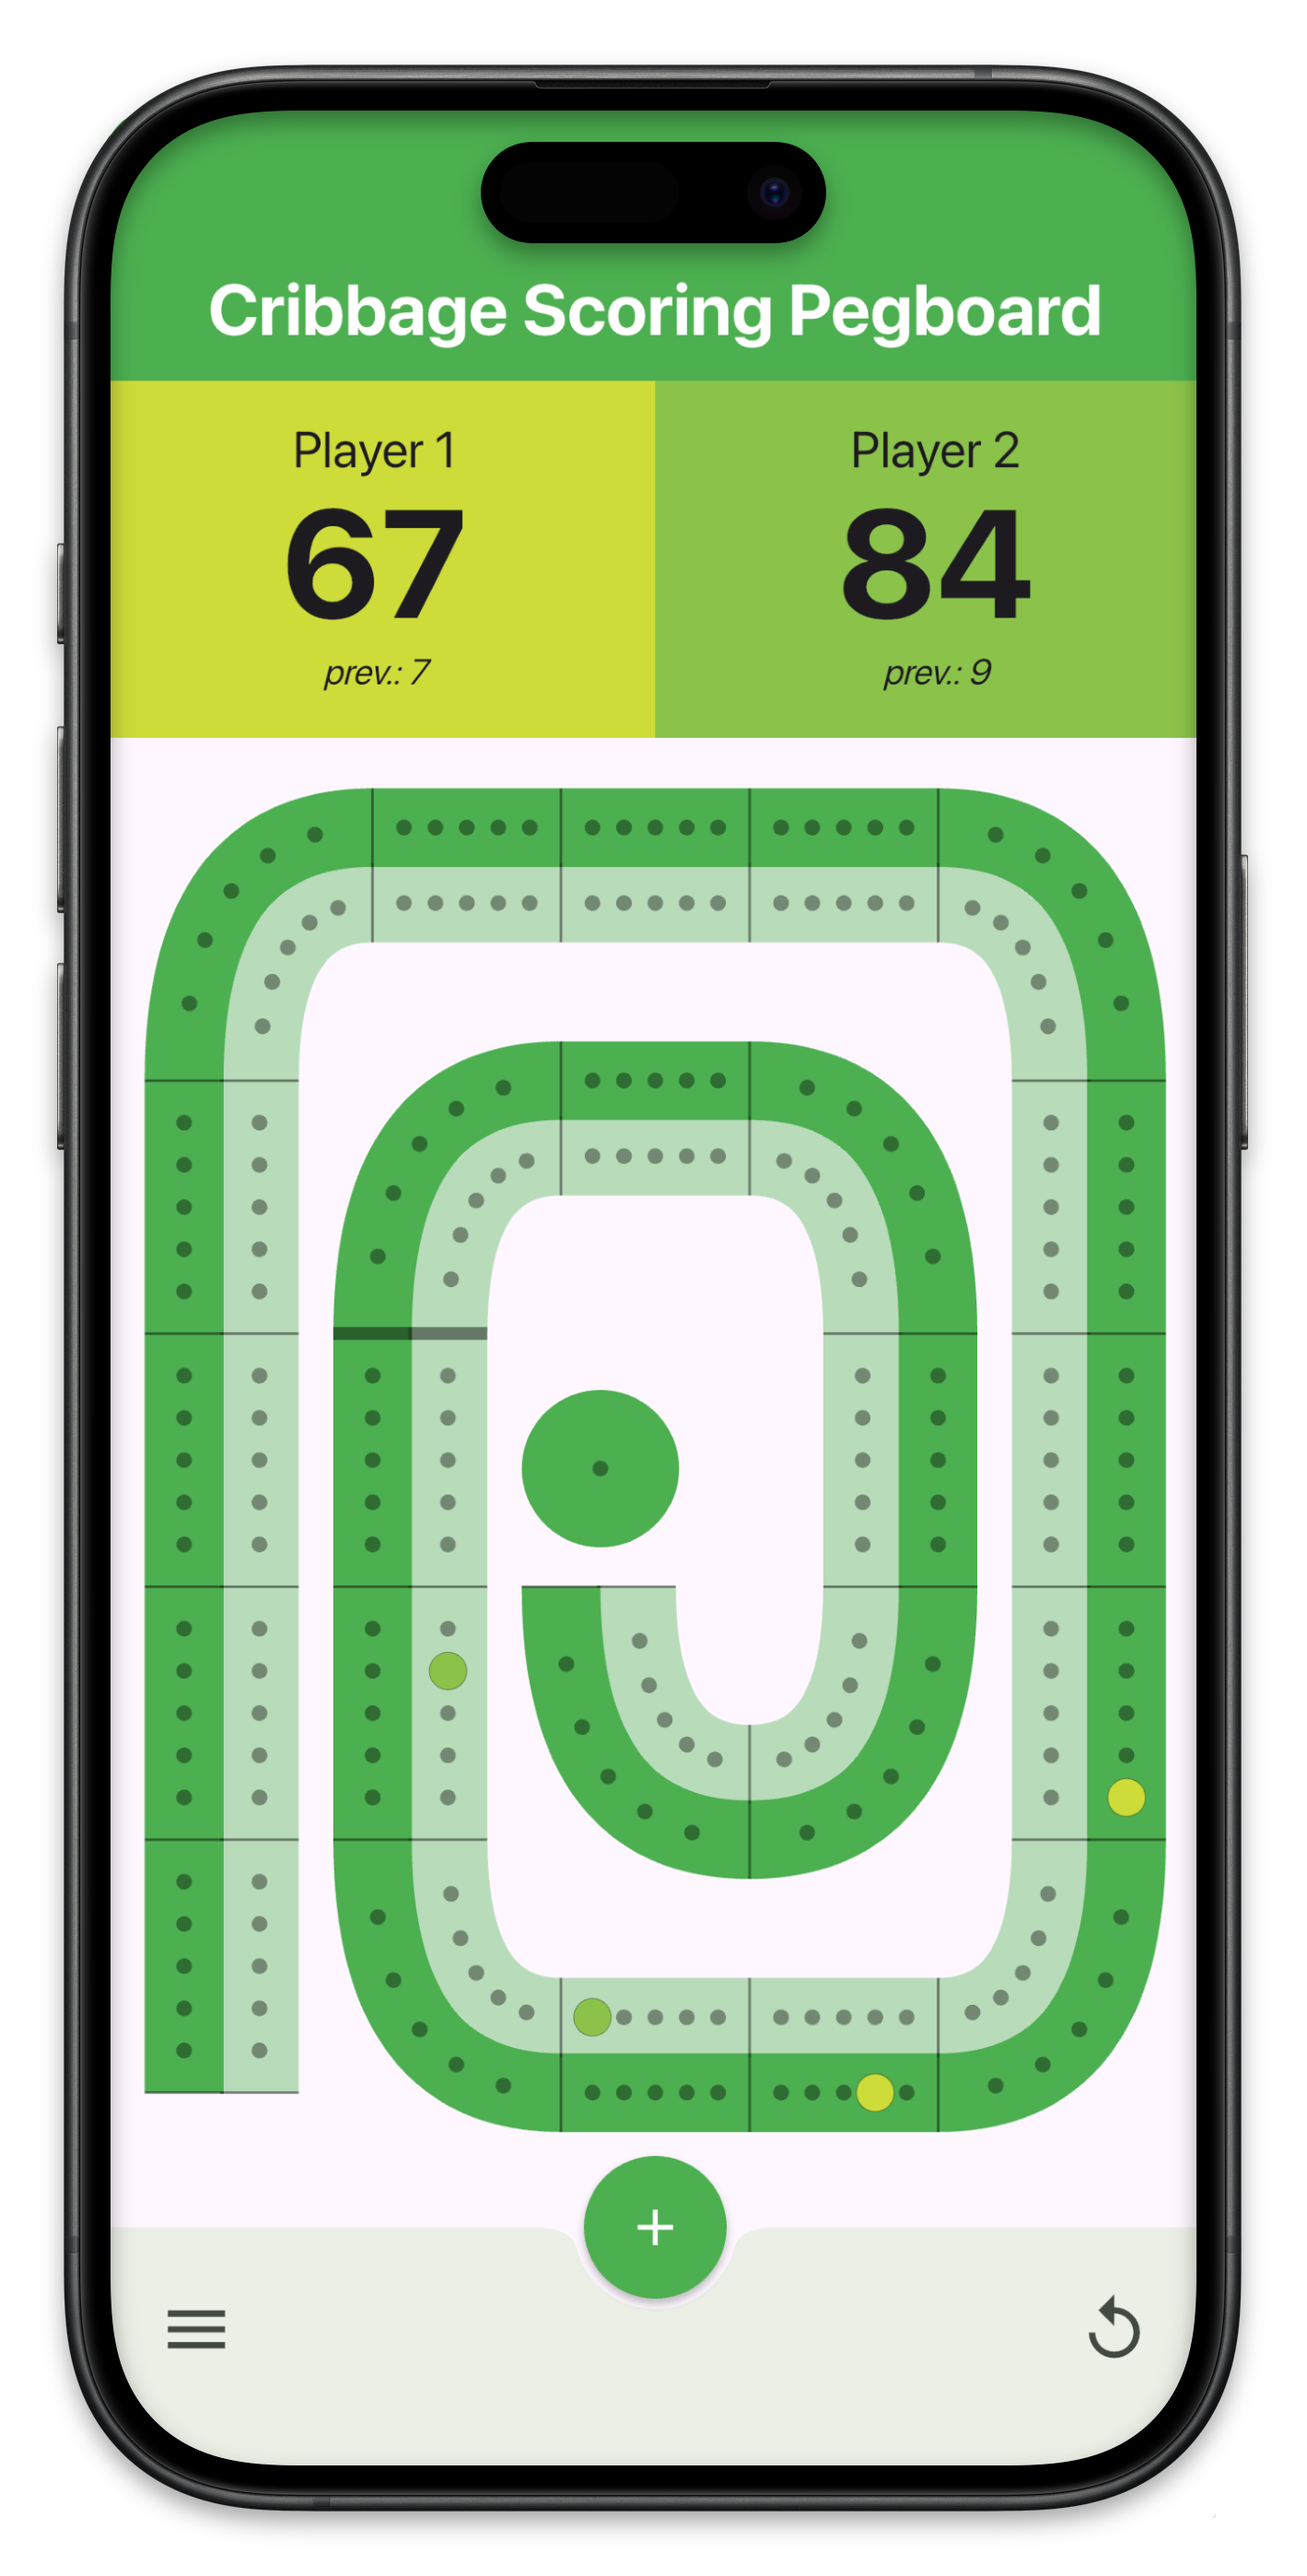
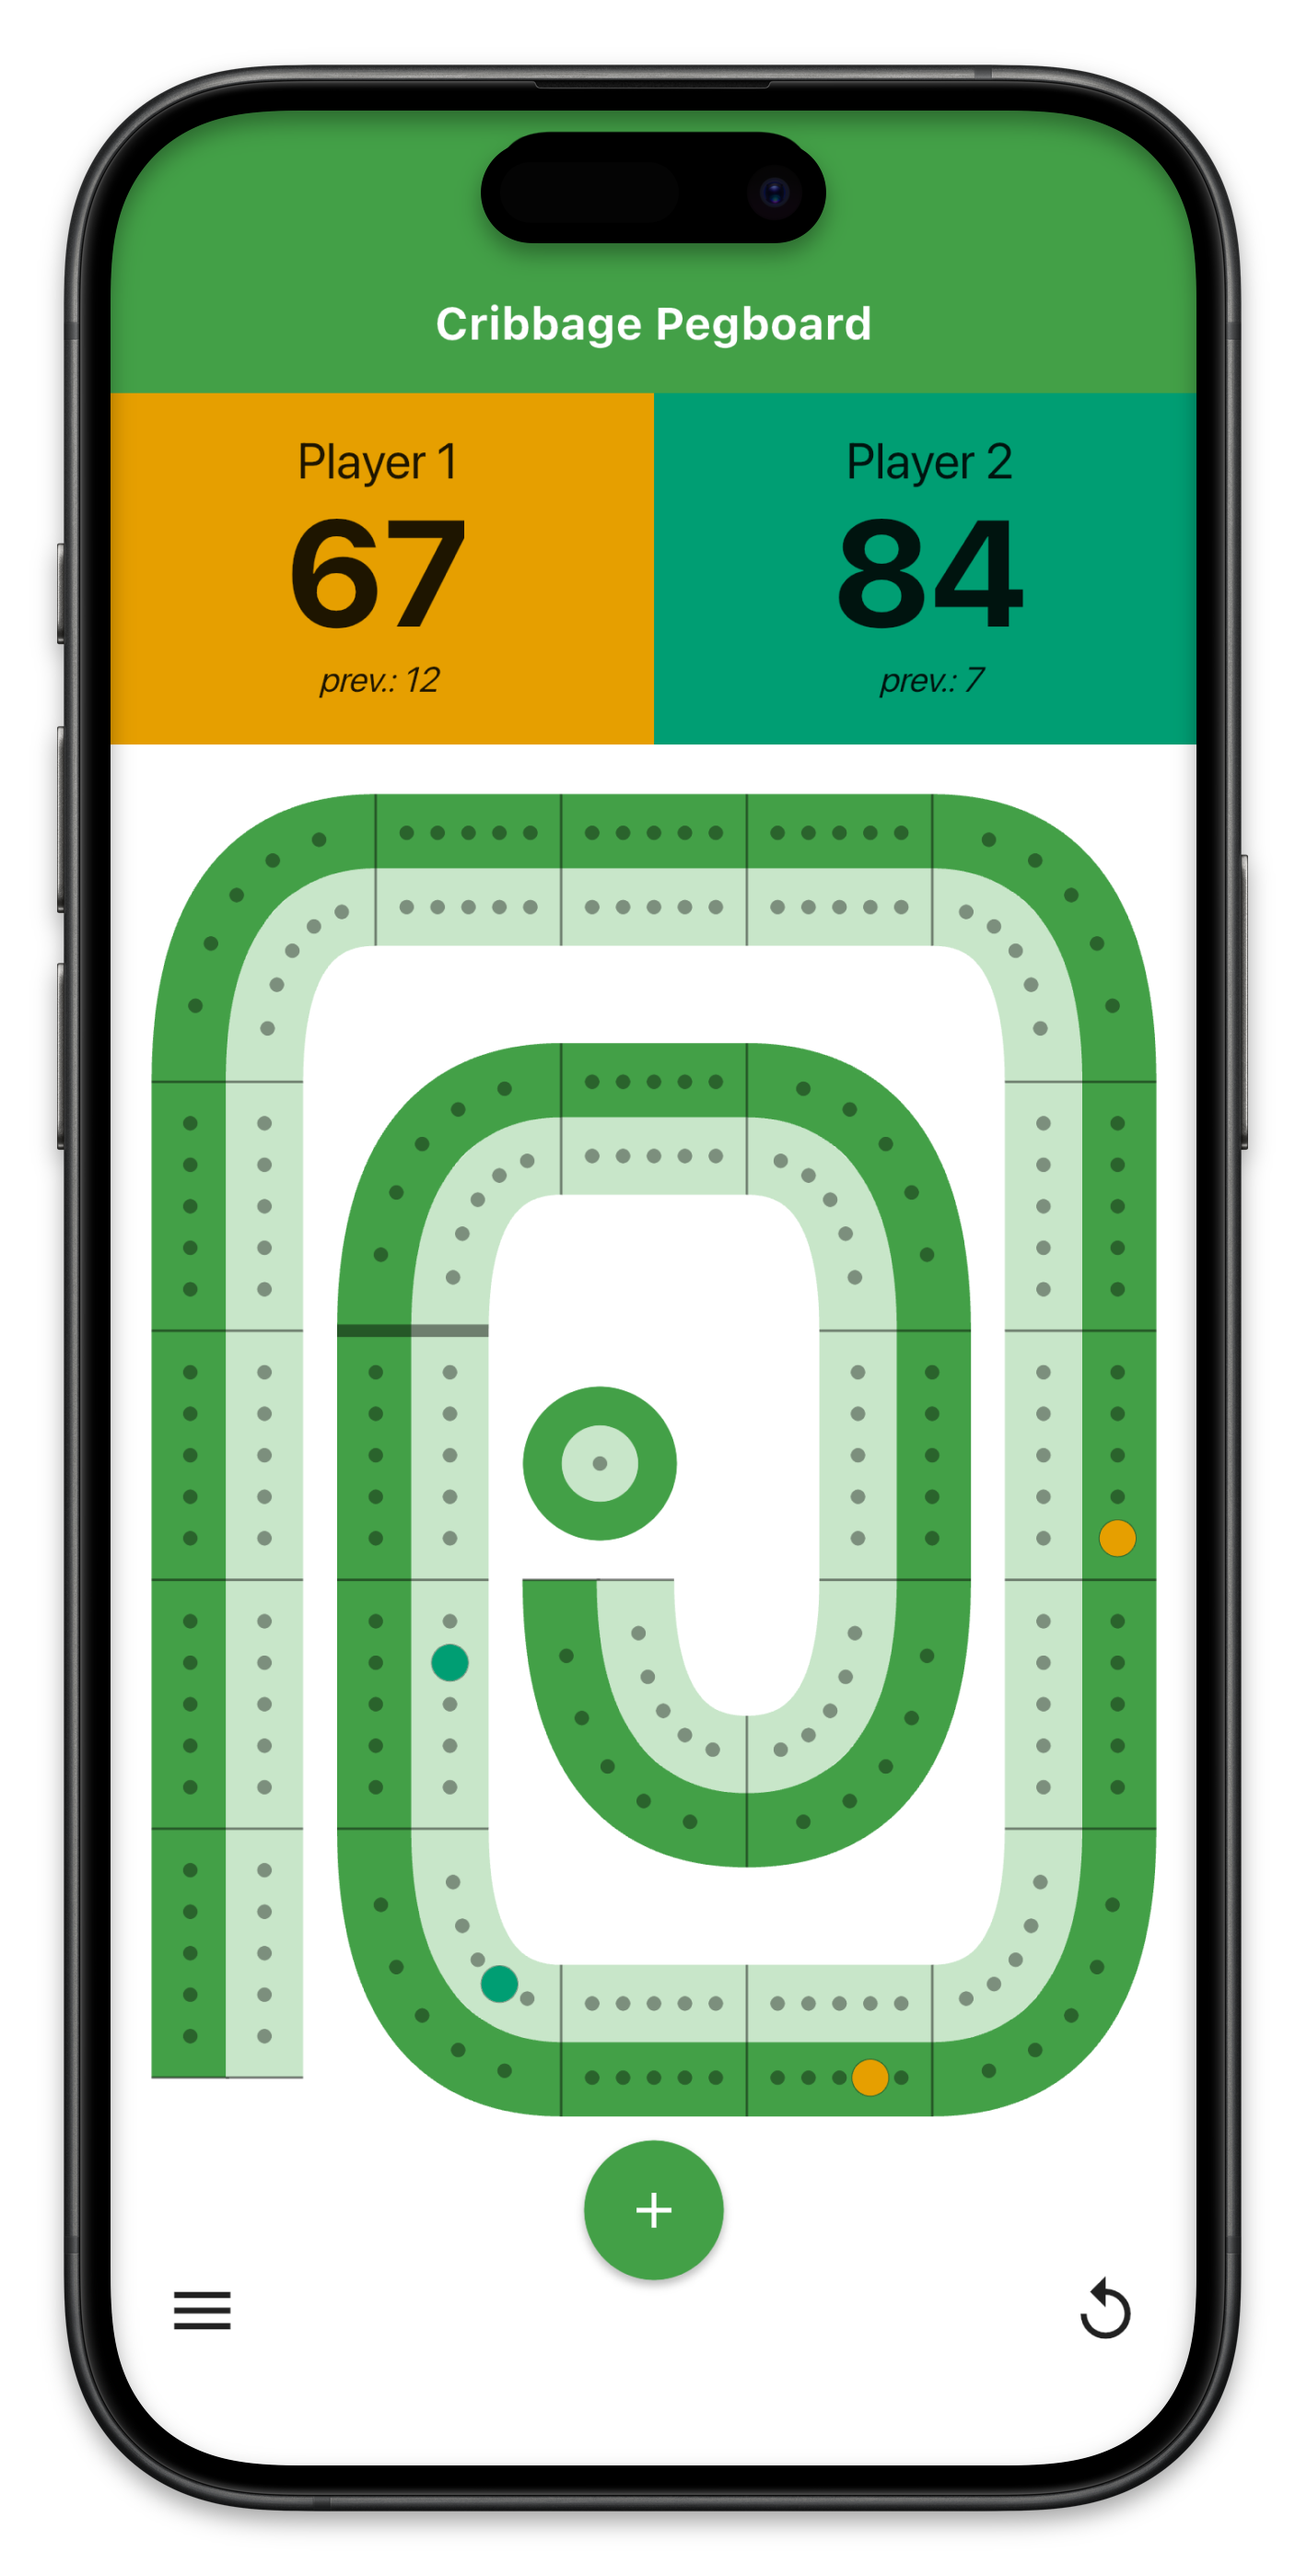
Added Burger Dasher content

diff --git a/themes/lostleafstudio/static/css/main.css b/themes/lostleafstudio/static/css/main.css
@@ -107,7 +107,7 @@ header {
   width: auto;
 }
 
-.section-inner > * {
+.section-inner>* {
   flex: 1;
 }
 
@@ -134,7 +134,7 @@ header {
 .card {
   background: #fff;
   border-radius: 40px;
-  box-shadow: 0 10px 30px rgba(0,0,0,0.08);
+  box-shadow: 0 10px 30px rgba(0, 0, 0, 0.08);
   height: 440px;
   overflow: hidden;
   padding: 60px;
@@ -150,9 +150,9 @@ header {
 .card__callout h2 {
   font-size: 2.25rem;
   margin: 0 0 1rem;
-  text-shadow: 
-    1px 1px 0 rgba(0, 0, 0, 0.5), 
-    2px 2px 0 rgba(0, 0, 0, 0.3), 
+  text-shadow:
+    1px 1px 0 rgba(0, 0, 0, 0.5),
+    2px 2px 0 rgba(0, 0, 0, 0.3),
     3px 3px 0 rgba(0, 0, 0, 0.2);
 }
 
@@ -184,6 +184,53 @@ header {
 .cribbage.card {
   background: linear-gradient(180deg, #4caf50, #2196f3);
   color: #fff;
+}
+
+/* Burger Card Variant */
+
+.burger.card {
+  background: #000;
+  color: #fff;
+  padding-right: 0;
+}
+
+.burger.card .card__callout h2 {
+  color: #ff0000;
+  font-size: 4rem;
+}
+
+.burger.card .card__callout h2 span {
+  color: #00ff00;
+  font-size: 3.35rem;
+}
+
+.burger.card .card__callout h2 span img {
+  margin: 0 10px 0 0;
+  vertical-align: text-top;
+}
+
+.burger.card .card__callout h2,
+.burger.card .card__callout h2 span {
+
+  font-family: 'Press Start 2P', sans-serif;
+  text-transform: uppercase;
+  line-height: 3.8rem;
+}
+
+.burger.card .card__callout a {
+  margin: 2rem 0;
+}
+
+.burger.card .card__image {
+  margin-bottom: -180px;
+  height: auto;
+  width: auto;
+}
+
+.burger.card .card__image img {
+  display: block;
+  height: 600px;
+  width: auto;
 }
 
 /* Raiders Card Variant */
@@ -348,10 +395,36 @@ header {
 }
 
 .app-header--cribbage .app-header__title {
-  text-shadow: 
-    1px 1px 0 rgba(0, 0, 0, 0.5), 
-    2px 2px 0 rgba(0, 0, 0, 0.3), 
+  text-shadow:
+    1px 1px 0 rgba(0, 0, 0, 0.5),
+    2px 2px 0 rgba(0, 0, 0, 0.3),
     3px 3px 0 rgba(0, 0, 0, 0.2);
+}
+
+/* Burger App Header Variant */
+
+.app-header--burger {
+  background: #000;
+  color: #ff0000;
+}
+
+.app-header--burger .app-header__title,
+.app-header--burger .app-header__tagline {
+  color: #ff0000;
+  font-family: 'Press Start 2P', sans-serif;
+}
+
+.app-header--burger .app-header__title {
+  text-transform: uppercase;
+}
+
+.app-header--burger .app-header__title span {
+  color: #00ff00;
+}
+
+.app-header--burger .app-header__image {
+  padding-top: 80px;
+  width: 500px;
 }
 
 /* Raiders App Header Variant */
@@ -368,9 +441,9 @@ header {
 }
 
 .app-header--raiders .app-header__title {
-  text-shadow: 
-    1px 1px 0 rgba(0, 0, 0, 0.5), 
-    2px 2px 0 rgba(0, 0, 0, 0.3), 
+  text-shadow:
+    1px 1px 0 rgba(0, 0, 0, 0.5),
+    2px 2px 0 rgba(0, 0, 0, 0.3),
     3px 3px 0 rgba(0, 0, 0, 0.2);
 }
 
@@ -576,16 +649,16 @@ footer .feather {
   header {
     padding: 10px 0 16px;
   }
-  
+
   .brand__logo {
     height: 60px;
     width: 60px;
   }
-  
+
   .brand__title {
     font-size: 24px;
   }
-  
+
   .brand__description {
     font-size: 11px;
     letter-spacing: 0.9px;
@@ -602,6 +675,10 @@ footer .feather {
     padding: 32px 24px;
   }
 
+  .card__image {
+    margin: 0;
+  }
+
   .card__callout,
   .raiders.card .card__callout {
     padding: 40px 20px 0;
@@ -611,12 +688,29 @@ footer .feather {
     margin: 40px 0;
   }
 
-  .card__image {
-    margin: 0;
+  .burger.card .card__callout h2 {
+    transform: scale(0.75);
+  }
+
+  .burger.card .card__callout a {
+    margin: 1rem 0;
+  }
+
+  .burger.card .card__image {
+    margin: -20px 0 0;
+  }
+
+  .burger.card .card__image img {
+    height: 384px;
   }
 
   .raiders.card .card__image {
     display: none;
+  }
+
+  .app-header--burger .app-header__image,
+  .app-header--raiders .app-header__image {
+    padding-top: 0;
   }
 
   .section {

diff --git a/themes/lostleafstudio/layouts/home.html b/themes/lostleafstudio/layouts/home.html
@@ -14,7 +14,8 @@
         <a href="{{ .Site.BaseURL }}apps/cribbage-pegboard/" class="btn">Learn More</a>
       </div>
       <div class="card__image">
-        <img src="{{ .Site.BaseURL }}images/cribbage-pegboard-screen.png" alt="Screenshot of Cribbage Pegboard on iPhone"/>
+        <img src="{{ .Site.BaseURL }}images/cribbage-pegboard-screen.png"
+          alt="Screenshot of Cribbage Pegboard on iPhone" />
       </div>
     </div>
   </section>
@@ -22,7 +23,7 @@
   <section class="section card raiders">
     <div class="section-inner">
       <div class="card__image">
-        <img src="{{ .Site.BaseURL }}images/river-raiders-screen.png" alt="Screenshot of River Raiders on iPhone"/>
+        <img src="{{ .Site.BaseURL }}images/river-raiders-screen.png" alt="Screenshot of River Raiders on iPhone" />
       </div>
       <div class="card__callout">
         <h2>River Raiders</h2>
@@ -32,27 +33,43 @@
     </div>
   </section>
 
+  <section class="section card burger">
+    <div class="section-inner">
+      <div class="card__callout">
+        <h2>Burger <span><img src="{{ .Site.BaseURL }}images/burger-dasher-head.png" />Dasher</span></h2>
+        <a href="{{ .Site.BaseURL }}apps/burger-dasher/" class="btn">Learn More</a>
+      </div>
+      <div class="card__image">
+        <img src="{{ .Site.BaseURL }}images/burger-dasher-burger.png" alt="Pixel Burger" />
+      </div>
+    </div>
+  </section>
+
   <section class="section capabilities">
     <div class="cap-grid">
       <div class="cap">
         <div><i data-feather="layers"></i></div>
         <h3>Web Design</h3>
-        <p>A successful site should be designed around aesthetics and usability. Good web design has a positive impact on your guests and the bottom line.</p>
+        <p>A successful site should be designed around aesthetics and usability. Good web design has a positive impact
+          on your guests and the bottom line.</p>
       </div>
       <div class="cap">
         <div><i data-feather="smartphone"></i></div>
         <h3>Mobile Development</h3>
-        <p>Meet your audience where they want to be. Our team of experienced developers create rich mobile experiences that keep users engaged and filled with joy.</p>
+        <p>Meet your audience where they want to be. Our team of experienced developers create rich mobile experiences
+          that keep users engaged and filled with joy.</p>
       </div>
       <div class="cap">
         <div><i data-feather="dollar-sign"></i></div>
         <h3>E-Commerce Solutions</h3>
-        <p>We design e-commerce solutions that make it easy for your guest to search and purchase your products. We create sites that turn curiosity into conversion.</p>
+        <p>We design e-commerce solutions that make it easy for your guest to search and purchase your products. We
+          create sites that turn curiosity into conversion.</p>
       </div>
       <div class="cap">
         <div><i data-feather="zap"></i></div>
         <h3>Performance Optimization</h3>
-        <p>To meet all of your business goals you need to be able to reach your audience fast and efficiently. We strive to build sites and applications that are optimized for success.</p>
+        <p>To meet all of your business goals you need to be able to reach your audience fast and efficiently. We strive
+          to build sites and applications that are optimized for success.</p>
       </div>
     </div>
   </section>

diff --git a/content/apps/burger-dasher/index.md b/content/apps/burger-dasher/index.md
@@ -1,0 +1,47 @@
+---
+tags:
+- mobile
+- app
+- game
+title: Burger Dasher
+headerClass: burger
+headerTitle: "Burger <span>Dasher</span>"
+headerTagline: "Stack Fast or Get Cooked."
+headerImage: burger-dasher-screen.png
+headerImageAlt: "Screenshot of Burger Dasher on iPhone"
+storeGoogle: https://play.google.com/store/apps/details?id=com.lostleafstudio.burgerdasher
+storeApple: https://apps.apple.com/us/app/burger-dasher/id6759266757
+---
+
+Stack burgers, dodge danger, and dash through the kitchen in this fast-paced retro arcade game!
+
+## Classic Arcade Action
+
+Step into the shoes of a chef racing against time and mischievous food enemies. Drop burger ingredients through platforms, stack them perfectly, and complete delicious orders before the kitchen gets too hot to handle!
+
+## Easy to Learn, Challenging to Master
+
+Simple controls meet devious level design. Walk across burger parts to drop them down, trap enemies between buns, and use strategy to survive increasingly chaotic kitchens. Every level brings new challenges and tighter timing.
+
+## Features
+
+- Authentic retro arcade gameplay with modern polish
+- Dozens of handcrafted levels with increasing difficulty
+- Colorful pixel art graphics
+- Tight, responsive platformer controls
+- Chase high scores and perfect completions
+- No ads interrupting your gameplay
+- Works offline - play anywhere, anytime
+
+## Perfect for
+
+- Fans of classic arcade games
+- Quick gaming sessions on the go
+- Players who love skill-based challenges
+- Anyone nostalgic for the golden age of arcades
+
+Built with love by indie developers who grew up in arcades. **Burger Dasher** captures that pure, addictive gameplay that kept us pumping quarters into machines.
+
+### Can you build the perfect burger while escaping the kitchen chaos?
+
+Download **Burger Dasher** and start stacking today!
